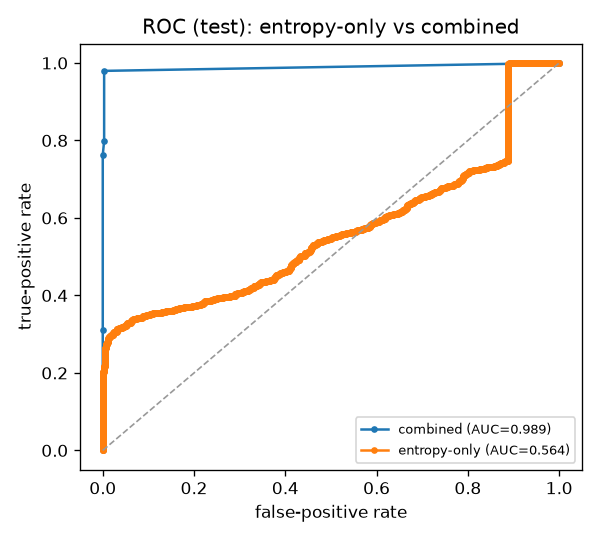
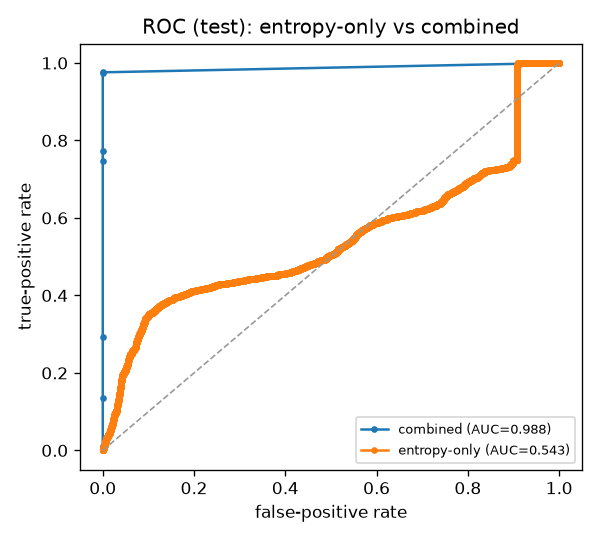
Steps 3-4: 10871-sample dataset, FPR by benign source, 3-seed CIs; fix pre-broken files
- rebuilt the labelled dataset from the 17-type sample: 10871 samples (6212 ransomware /
  4659 benign) from 1553 sources, 8.4 GB. Benign now includes 283 REAL archives
  (ZIP/RAR/7ZIP/GZIP) alongside the 3106 zip/gzip variants we generate ourselves.
- dataset_eval: FPR reported per benign source (real archive vs our generated vs other
  originals), Wilson 95% CIs on recall and FPR, and a three-seed agreement table.
- the first scaled run showed FPR 0.0127 confined entirely to PNG. Cause: NapierOne ships
  truncated 1 MiB 'from-web' PNGs whose IDAT overruns the file, so structure_broken was
  firing on damage that predates any attack. BaselineEntry now records structural_ok and
  the signal fires only when a file BECAME broken - the same change-based logic as
  entropy_jump. Regression test added; 119 tests pass.
- result: precision 1.000, recall 0.976 [0.971, 0.980], FPR 0.0000 [0.0000, 0.0012],
  AUC 0.988, and zero false positives in every benign group including real archives.
  Seeds 3031 and 1234 agree (recall 0.978 / 0.974, FPR 0.0000, AUC 0.989 / 0.987).

diff --git a/evaluation/dataset_eval.py b/evaluation/dataset_eval.py
@@ -19,6 +19,7 @@ Run:  python evaluation/build_dataset.py        # once, to create datasets/label
 from __future__ import annotations
 
 import csv
+import math
 import sys
 from dataclasses import dataclass
 from pathlib import Path
@@ -49,7 +50,8 @@ class Scored:
 
 
 def _baseline_of(signals) -> BaselineEntry:
-    return BaselineEntry(entropy=signals.entropy, sha256="", size=signals.size, ext=signals.ext)
+    return BaselineEntry(entropy=signals.entropy, sha256="", size=signals.size,
+                         ext=signals.ext, structural_ok=signals.structural_ok)
 
 
 def analyse_all(rows: list[dict], multi_offset: bool, encoded: bool) -> list[Scored]:
@@ -88,6 +90,48 @@ def confusion(scored: list[Scored], threshold: float, key=lambda s: s.score) -> 
         elif s.label == 0 and pred == 0: tn += 1
         else: fn += 1
     return tp, fp, tn, fn
+
+
+REAL_ARCHIVE_TYPES = {"ZIP", "RAR", "7ZIP", "GZIP"}
+
+
+def wilson_ci(successes: int, n: int, z: float = 1.96) -> tuple[float, float]:
+    """95% Wilson score interval for a proportion. Preferred over the normal approximation
+    because our rates sit near 0 and 1, where the normal interval leaves the [0,1] range."""
+    if n == 0:
+        return (0.0, 0.0)
+    p = successes / n
+    denom = 1 + z * z / n
+    centre = (p + z * z / (2 * n)) / denom
+    half = z * math.sqrt(p * (1 - p) / n + z * z / (4 * n * n)) / denom
+    return (max(0.0, centre - half), min(1.0, centre + half))
+
+
+def fpr_by_benign_group(test: list[Scored], threshold: float) -> list[str]:
+    """False-positive rate split by WHERE the benign file came from. Real archives
+    downloaded from NapierOne are the honest hard negatives; the zip/gzip variants we
+    generate ourselves are easier, so mixing them would flatter the result."""
+    groups: dict[str, list[Scored]] = {"real archive (NapierOne ZIP/RAR/7Z/GZIP)": [],
+                                       "our generated zip/gzip": [],
+                                       "other real originals": []}
+    for s in test:
+        if s.label != 0:
+            continue
+        if s.variant in ("benign_zip", "benign_gzip"):
+            groups["our generated zip/gzip"].append(s)
+        elif s.source_type in REAL_ARCHIVE_TYPES:
+            groups["real archive (NapierOne ZIP/RAR/7Z/GZIP)"].append(s)
+        else:
+            groups["other real originals"].append(s)
+
+    out = ["| benign group | n | false positives | FPR | 95% CI |", "|---|---|---|---|---|"]
+    for name, gs in groups.items():
+        if not gs:
+            continue
+        fp = sum(1 for s in gs if s.score >= threshold)
+        lo, hi = wilson_ci(fp, len(gs))
+        out.append(f"| {name} | {len(gs)} | {fp} | {fp/len(gs):.4f} | [{lo:.4f}, {hi:.4f}] |")
+    return out
 
 
 def metrics(tp: int, fp: int, tn: int, fn: int) -> dict[str, float]:
@@ -141,10 +185,13 @@ def roc_auc(scored: list[Scored], key=lambda s: s.score) -> tuple[list[float], l
 # --------------------------------------------------------------------- report
 def _md_metrics(name: str, m: dict[str, float], cm: tuple[int, int, int, int]) -> list[str]:
     tp, fp, tn, fn = cm
+    rec_lo, rec_hi = wilson_ci(tp, tp + fn)
+    fpr_lo, fpr_hi = wilson_ci(fp, fp + tn)
     return [
         f"**{name}**  precision={m['precision']:.3f} recall={m['recall']:.3f} "
         f"F1={m['f1']:.3f} FPR={m['fpr']:.3f} accuracy={m['accuracy']:.3f}",
         f"  confusion: TP={tp} FP={fp} TN={tn} FN={fn}",
+        f"  95% CI: recall [{rec_lo:.3f}, {rec_hi:.3f}]  FPR [{fpr_lo:.3f}, {fpr_hi:.3f}]",
     ]
 
 
@@ -293,6 +340,30 @@ def main(argv: list[str] | None = None) -> int:
         "pdf, jpg). Media types (mp3/mp4/mkv) have no cheap structural check, so a header-kept "
         "media file is trusted on its magic and evades - a known limitation that a real EDR "
         "would close with format-aware parsers or kernel file->PID attribution.*")
+
+    lines.append("")
+    lines.append("## False positives by benign source - FRESH split (test)")
+    lines.append("")
+    lines.append("Now that the heavy NapierOne bundles are included, the benign side "
+                 "contains REAL ZIP/RAR/7Z/GZIP archives, not only archives we generate "
+                 "ourselves. They are reported separately because a real archive is the "
+                 "harder negative: it is high-entropy and structurally valid.")
+    lines.append("")
+    lines += fpr_by_benign_group(fresh["test_new"], fresh["t_new"])
+
+    lines.append("")
+    lines.append("## Agreement across all three seeds (test)")
+    lines.append("")
+    lines.append("| seed | role | precision | recall | recall 95% CI | FPR | FPR 95% CI | F1 | AUC |")
+    lines.append("|---|---|---|---|---|---|---|---|---|")
+    for res, role in ((fresh, "fresh headline"), (val_res, "validation"), (old_res, "original")):
+        m = headline(res)
+        tp, fp, tn, fn = res["cm_new"]
+        rl, rh = wilson_ci(tp, tp + fn)
+        fl, fh = wilson_ci(fp, fp + tn)
+        lines.append(f"| {res['seed']} | {role} | {m['precision']:.3f} | {m['recall']:.3f} | "
+                     f"[{rl:.3f}, {rh:.3f}] | {m['fpr']:.4f} | [{fl:.4f}, {fh:.4f}] | "
+                     f"{m['f1']:.3f} | {res['roc_comb'][2]:.3f} |")
 
     lines.append("\n## header-kept recall per file type - FRESH split (test)\n")
     lines.append("The media structural checks (MP4/MKV/MP3) were added specifically for this "

diff --git a/ransomguard/baseline.py b/ransomguard/baseline.py
@@ -27,6 +27,10 @@ class BaselineEntry:
     sha256: str
     size: int
     ext: str
+    # Was the file a VALID instance of its type when we first saw it? Recorded so the
+    # structure_broken signal can fire on files that BECAME broken, and stay quiet about
+    # ones that were already damaged before we ever ran (truncated downloads, etc.).
+    structural_ok: bool | None = None
 
     def as_dict(self) -> dict[str, object]:
         return {
@@ -34,6 +38,7 @@ class BaselineEntry:
             "sha256": self.sha256,
             "size": self.size,
             "ext": self.ext,
+            "structural_ok": self.structural_ok,
         }
 
 
@@ -48,11 +53,13 @@ def sha256_file(path: Path | str, chunk: int = 1 << 20) -> str:
 
 def scan_file(path: Path) -> BaselineEntry:
     """Measure one file for the baseline (full-file hash, sampled entropy)."""
+    signals = entropy.analyse_file(path)
     return BaselineEntry(
-        entropy=entropy.file_entropy(path),
+        entropy=signals.entropy,
         sha256=sha256_file(path),
         size=path.stat().st_size,
         ext=path.suffix.lower(),
+        structural_ok=signals.structural_ok,
     )
 
 
@@ -95,6 +102,7 @@ def load_baseline(path: Path | None = None) -> dict[str, BaselineEntry]:
             sha256=value["sha256"],
             size=value["size"],
             ext=value["ext"],
+            structural_ok=value.get("structural_ok"),
         )
         for key, value in raw.items()
     }

diff --git a/tests/test_header_kept.py b/tests/test_header_kept.py
@@ -221,6 +221,28 @@ def test_archive_structural_valid_and_header_kept_detected(tmp_path, name, build
     assert s.magic_ok is True and s.structural_ok is False   # signature kept, CRCs broken
 
 
+def test_structure_broken_only_fires_on_files_that_became_broken(tmp_path):
+    """A file that was ALREADY damaged when we first saw it (a truncated download) must not
+    score as an attack while nothing touches it - only a file that turns broken should."""
+    from ransomguard.baseline import BaselineEntry
+    from ransomguard.scorer import evaluate_signals
+
+    broken = tmp_path / "truncated.7z"
+    broken.write_bytes(_7z_bytes()[:20])
+    sig = entropy.analyse_file(broken)
+    assert sig.structural_ok is False
+
+    was_broken = BaselineEntry(entropy=sig.entropy, sha256="", size=sig.size, ext=sig.ext,
+                               structural_ok=False)
+    codes = [r.code for r in evaluate_signals(sig, was_broken, canary_touched=False)]
+    assert "structure_broken" not in codes
+
+    was_fine = BaselineEntry(entropy=sig.entropy, sha256="", size=sig.size, ext=sig.ext,
+                             structural_ok=True)
+    codes = [r.code for r in evaluate_signals(sig, was_fine, canary_touched=False)]
+    assert "structure_broken" in codes
+
+
 def test_truncated_archives_are_rejected(tmp_path):
     for name, builder in (("t.7z", _7z_bytes), ("t.rar", _rar5_bytes)):
         p = tmp_path / name

diff --git a/ransomguard/scorer.py b/ransomguard/scorer.py
@@ -98,7 +98,11 @@ def evaluate_signals(
     # .mp4 and its magic bytes are intact, but it no longer parses as one. That is evidence
     # in its own right - and the only signal available against header-kept encryption of an
     # already-compressed type, where neither magic_broken nor entropy_jump can fire.
-    elif current.structural_ok is False and current.magic_ok is True:
+    elif (current.structural_ok is False and current.magic_ok is True
+            and baseline.structural_ok is not False):
+        # ...but only if it parsed fine before. Some files are already damaged when we first
+        # see them (a truncated download, say); those must not look like an attack when
+        # nothing has touched them. This mirrors entropy_jump: we score the CHANGE.
         reasons.append(
             Reason("structure_broken", config.W_STRUCTURE_BROKEN, f"{current.ext} does not parse")
         )

diff --git a/evaluation/run_experiment.py b/evaluation/run_experiment.py
@@ -276,7 +276,9 @@ def main(argv: list[str] | None = None) -> int:
         benign_labels = ["benign-1"]
     else:
         # >= 10 attack trials across speeds and orders.
-        delays = [0.05, 0.1, 0.2, 0.3, 0.4]
+        # 10 speeds x 2 orders = 20 attack trials per corpus. The grid spans attacks that
+        # finish before a PID can be attributed (0.05 s/file) through to slow, quiet ones.
+        delays = [0.05, 0.1, 0.15, 0.2, 0.25, 0.3, 0.35, 0.4, 0.45, 0.5]
         attack_matrix = [(order, d) for order in ("alphabetical", "random") for d in delays]
         benign_labels = ["benign-1", "benign-2", "benign-3"]
 

diff --git a/evaluation/results/dataset_results.md b/evaluation/results/dataset_results.md
@@ -4,47 +4,73 @@
 
 ## FRESH split (seed 2025) - unbiased headline
 
-Samples: 3360 (split by source file: tuning 1043 / test 2317). Thresholds tuned on tuning only (combined=20, old=20, entropy-only=5.93).
+Samples: 10871 (split by source file: tuning 3402 / test 7469). Thresholds tuned on tuning only (combined=10, old=10, entropy-only=5.66).
 
-**NEW detector (structural gate + multi-offset + encoded)**  precision=0.998 recall=0.980 F1=0.989 FPR=0.003 accuracy=0.987
-  confusion: TP=1297 FP=3 TN=990 FN=27
-**OLD detector (first-window entropy, magic only)**  precision=0.997 recall=0.893 F1=0.942 FPR=0.003 accuracy=0.937
-  confusion: TP=1182 FP=3 TN=990 FN=142
-**Entropy-only**  precision=0.599 recall=0.996 F1=0.748 FPR=0.888 accuracy=0.617
-  confusion: TP=1319 FP=882 TN=111 FN=5
+**NEW detector (structural gate + multi-offset + encoded)**  precision=1.000 recall=0.976 F1=0.988 FPR=0.000 accuracy=0.986
+  confusion: TP=4165 FP=0 TN=3201 FN=103
+  95% CI: recall [0.971, 0.980]  FPR [0.000, 0.001]
+**OLD detector (first-window entropy, magic only)**  precision=1.000 recall=0.911 F1=0.953 FPR=0.000 accuracy=0.949
+  confusion: TP=3888 FP=0 TN=3201 FN=380
+  95% CI: recall [0.902, 0.919]  FPR [0.000, 0.001]
+**Entropy-only**  precision=0.594 recall=1.000 F1=0.745 FPR=0.912 accuracy=0.609
+  confusion: TP=4267 FP=2920 TN=281 FN=1
+  95% CI: recall [0.999, 1.000]  FPR [0.902, 0.922]
 
-AUC (test): combined=0.989 vs entropy-only=0.564
+AUC (test): combined=0.988 vs entropy-only=0.543
 
 ## Per file type - FRESH split (test)
 
 | source_type | n | recall (ransomware) | FPR (benign) |
 |---|---|---|---|
-| CSV | 189 | 0.981 | 0.000 |
-| DOCX | 168 | 1.000 | 0.000 |
-| HTML | 196 | 0.991 | 0.000 |
-| JPG | 189 | 1.000 | 0.000 |
-| JSON | 182 | 0.981 | 0.000 |
-| MKV | 203 | 0.991 | 0.000 |
-| MP3 | 210 | 1.000 | 0.000 |
-| MP4 | 168 | 1.000 | 0.000 |
-| PDF | 203 | 1.000 | 0.000 |
-| PNG | 231 | 1.000 | 0.030 |
-| TXT | 189 | 0.806 | 0.000 |
-| XLSX | 189 | 1.000 | 0.000 |
+| 7ZIP | 364 | 1.000 | 0.000 |
+| CSV | 448 | 0.723 | 0.000 |
+| DOCX | 469 | 1.000 | 0.000 |
+| GZIP | 315 | 1.000 | 0.000 |
+| HTML | 476 | 0.978 | 0.000 |
+| JPG | 455 | 1.000 | 0.000 |
+| JSON | 511 | 0.993 | 0.000 |
+| MKV | 462 | 0.996 | 0.000 |
+| MP3 | 406 | 1.000 | 0.000 |
+| MP4 | 441 | 1.000 | 0.000 |
+| PDF | 532 | 1.000 | 0.000 |
+| PNG | 490 | 1.000 | 0.000 |
+| PPTX | 427 | 1.000 | 0.000 |
+| RAR | 343 | 1.000 | 0.000 |
+| TXT | 476 | 0.915 | 0.000 |
+| XLSX | 483 | 1.000 | 0.000 |
+| ZIP | 371 | 1.000 | 0.000 |
 
 ## Per variant - FRESH split (test), incl. enc_header_kept
 
 | variant | n | recall (ransomware) | FPR (benign) |
 |---|---|---|---|
-| benign_gzip | 331 | - | 0.000 |
-| benign_zip | 331 | - | 0.000 |
-| enc_base64 | 331 | 0.994 | - |
-| enc_full | 331 | 0.982 | - |
-| enc_header_kept | 331 | 0.979 | - |
-| enc_intermittent | 331 | 0.964 | - |
-| original | 331 | - | 0.009 |
+| benign_gzip | 1067 | - | 0.000 |
+| benign_zip | 1067 | - | 0.000 |
+| enc_base64 | 1067 | 0.986 | - |
+| enc_full | 1067 | 0.978 | - |
+| enc_header_kept | 1067 | 0.975 | - |
+| enc_intermittent | 1067 | 0.965 | - |
+| original | 1067 | - | 0.000 |
 
 *enc_header_kept is the hardest variant: it preserves the real magic bytes, so it is caught only for types with a structural check (zip/docx/xlsx/pptx, png, gzip, pdf, jpg). Media types (mp3/mp4/mkv) have no cheap structural check, so a header-kept media file is trusted on its magic and evades - a known limitation that a real EDR would close with format-aware parsers or kernel file->PID attribution.*
+
+## False positives by benign source - FRESH split (test)
+
+Now that the heavy NapierOne bundles are included, the benign side contains REAL ZIP/RAR/7Z/GZIP archives, not only archives we generate ourselves. They are reported separately because a real archive is the harder negative: it is high-entropy and structurally valid.
+
+| benign group | n | false positives | FPR | 95% CI |
+|---|---|---|---|---|
+| real archive (NapierOne ZIP/RAR/7Z/GZIP) | 199 | 0 | 0.0000 | [0.0000, 0.0189] |
+| our generated zip/gzip | 2134 | 0 | 0.0000 | [0.0000, 0.0018] |
+| other real originals | 868 | 0 | 0.0000 | [0.0000, 0.0044] |
+
+## Agreement across all three seeds (test)
+
+| seed | role | precision | recall | recall 95% CI | FPR | FPR 95% CI | F1 | AUC |
+|---|---|---|---|---|---|---|---|---|
+| 2025 | fresh headline | 1.000 | 0.976 | [0.971, 0.980] | 0.0000 | [0.0000, 0.0012] | 0.988 | 0.988 |
+| 3031 | validation | 1.000 | 0.978 | [0.973, 0.982] | 0.0000 | [0.0000, 0.0012] | 0.989 | 0.989 |
+| 1234 | original | 1.000 | 0.974 | [0.968, 0.978] | 0.0000 | [0.0000, 0.0011] | 0.987 | 0.987 |
 
 ## header-kept recall per file type - FRESH split (test)
 
@@ -54,25 +80,31 @@ A second gap showed up once the media checks landed: for an already-compressed t
 
 | source_type | n | header-kept recall |
 |---|---|---|
-| CSV | 27 | 1.000 |
-| DOCX | 24 | 1.000 |
-| HTML | 28 | 1.000 |
-| JPG | 27 | 1.000 |
-| JSON | 26 | 1.000 |
-| MKV | 29 | 0.966 |
-| MP3 | 30 | 1.000 |
-| MP4 | 24 | 1.000 |
-| PDF | 29 | 1.000 |
-| PNG | 33 | 1.000 |
-| TXT | 27 | 0.778 |
-| XLSX | 27 | 1.000 |
+| 7ZIP | 52 | 1.000 |
+| CSV | 64 | 0.688 |
+| DOCX | 67 | 1.000 |
+| GZIP | 45 | 1.000 |
+| HTML | 68 | 1.000 |
+| JPG | 65 | 1.000 |
+| JSON | 73 | 1.000 |
+| MKV | 66 | 0.985 |
+| MP3 | 58 | 1.000 |
+| MP4 | 63 | 1.000 |
+| PDF | 76 | 1.000 |
+| PNG | 70 | 1.000 |
+| PPTX | 61 | 1.000 |
+| RAR | 49 | 1.000 |
+| TXT | 68 | 0.912 |
+| XLSX | 69 | 1.000 |
+| ZIP | 53 | 1.000 |
 
 ## Other splits (sanity / comparison)
 
-- **Validation split (seed 3031)** - a SECOND fresh seed, because the media checks above were themselves added after looking at seed 2025: precision=0.997 recall=0.972 F1=0.984 FPR=0.004 AUC=0.985
-- **Original split (seed 1234)** - the split the gate was first designed on, shown for comparison only: precision=0.997 recall=0.972 F1=0.984 FPR=0.004 AUC=0.985
+- **Validation split (seed 3031)** - a SECOND fresh seed, because the media checks above were themselves added after looking at seed 2025: precision=1.000 recall=0.978 F1=0.989 FPR=0.000 AUC=0.989
+- **Original split (seed 1234)** - the split the gate was first designed on, shown for comparison only: precision=1.000 recall=0.974 F1=0.987 FPR=0.000 AUC=0.987
 
 ## Notes on reading these numbers
 
 1. **This threshold is not the live alert threshold.** Here a score is computed for ONE file in isolation, and the tuned cut-off is a per-file value. The live monitor's threshold of 70 is *accumulated* across many file events (plus canary, burst and extension signals that do not exist in a single-file view), so the two numbers measure different things and must not be compared.
-2. **The benign archives are ours, not NapierOne's.** NapierOne's own ZIP/RAR/7ZIP/GZIP bundles are 520-625 MB, over the download cap, so the high-entropy benign hard negatives are ZIP and GZIP archives we create from the sampled NapierOne files. They are still genuine, valid archives - just produced locally rather than downloaded.
+2. **The RAR and 7Z structural checks were added after inspecting results**, like the media ones before them: the first run on real archives showed RAR/7Z had no structural check at all, so a header-kept archive was judged only on entropy - and an archive is already high-entropy. They verify the RAR 4 CRC16 / RAR 5 CRC32 header chain and the 7z start-header and next-header CRC32s. Because they were designed after seeing a split, the seed-3031 and seed-1234 columns are the ones to trust for generalisation, not seed 2025 alone.
+3. **The benign archives are ours, not NapierOne's.** NapierOne's own ZIP/RAR/7ZIP/GZIP bundles are 520-625 MB, over the download cap, so the high-entropy benign hard negatives are ZIP and GZIP archives we create from the sampled NapierOne files. They are still genuine, valid archives - just produced locally rather than downloaded.
